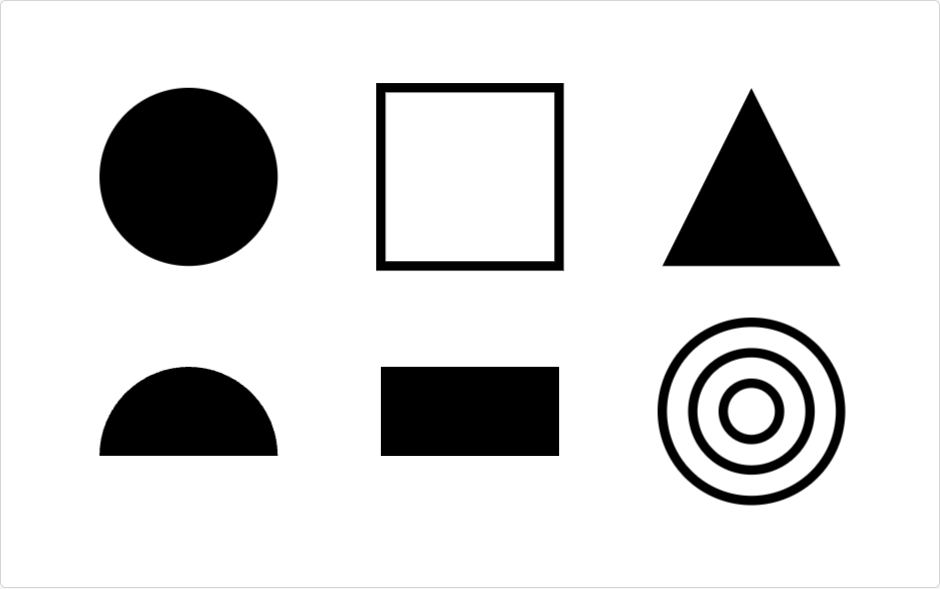
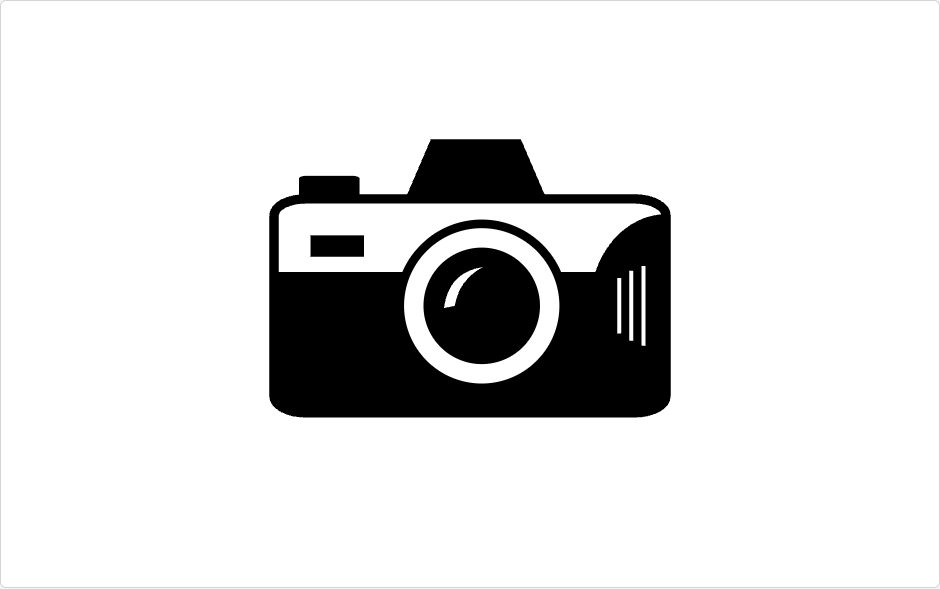
Update camera project screenshot

Changed region(s): [[0.0926, 0.1222, 0.9255, 0.8557]]

diff --git a/projects.html b/projects.html
@@ -141,9 +141,9 @@
 
           <article class="project-item">
             <img src="project-image/geometric-assembly.png"
-              alt="Black and white circle, square, triangle, semicircle, rectangle, and concentric rings" width="940" height="589" decoding="async" loading="lazy">
+              alt="Front view of the assembled black-and-white camera" width="940" height="589" decoding="async" loading="lazy">
             <h3>Geometric Assembly</h3>
-            <p>Six simple SVG shapes assemble through coordinated CSS animation.</p>
+            <p>Six SVG components slide apart and reassemble in an exploded view of a camera.</p>
             <a class="btn" href="svg-project.html">View SVG Project</a>
           </article>
 
